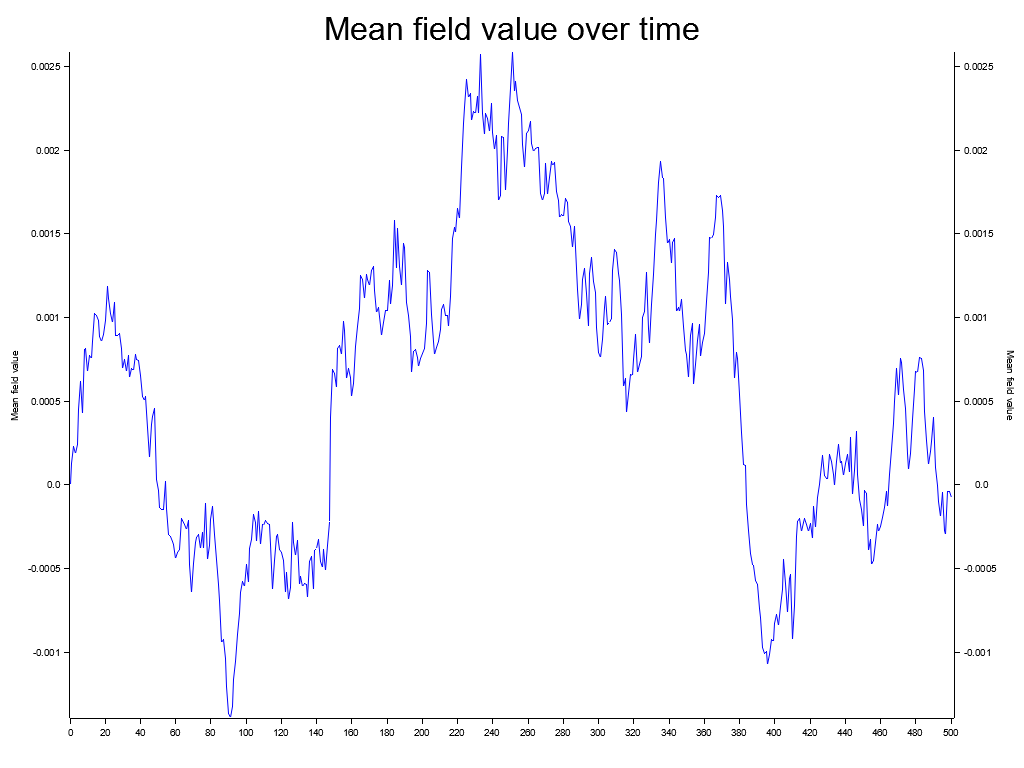
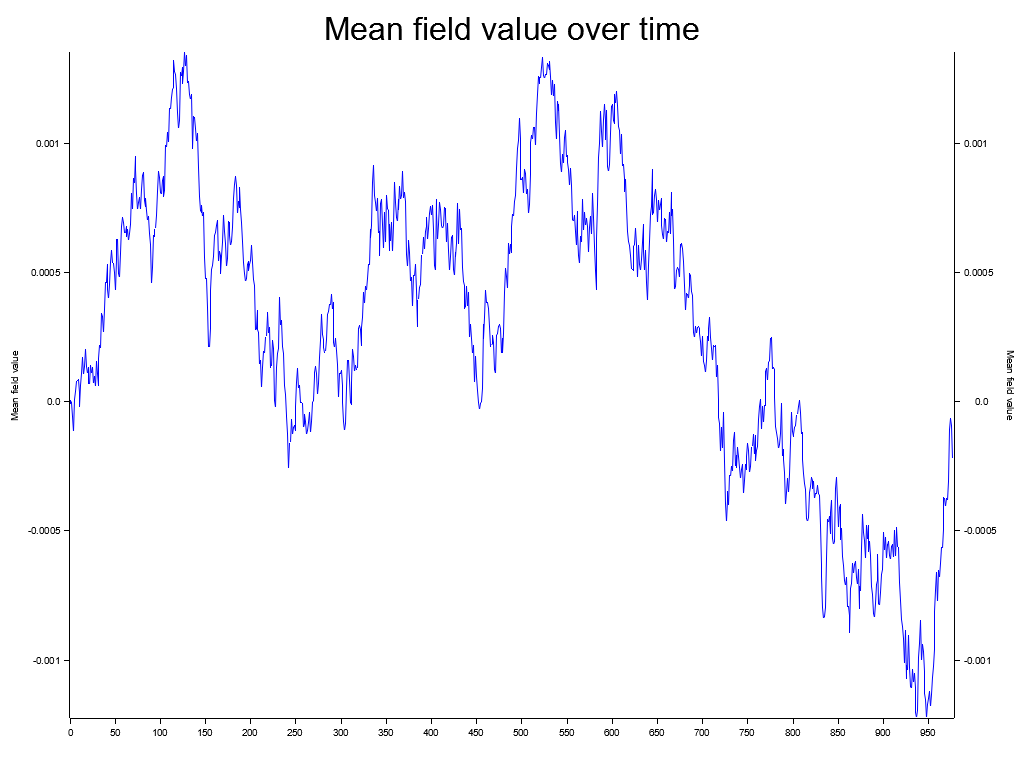
Add adaptive step size

diff --git a/src/sim.rs b/src/sim.rs
@@ -1,4 +1,5 @@
 use std::ops::Range;
+use std::time::Instant;
 use num_traits::Pow;
 use rand::Rng;
 use crate::lattice::ScalarLattice4D;
@@ -12,49 +13,90 @@ pub struct SimBuilder {
     spacing: f64,
     sizes: [usize; 4],
     initial_value: InitialFieldValue,
-    dvar: f64,
+
+    starting_variation: f64,
+    lower_acceptance: f64,
+    upper_acceptance: f64,
+    acceptance_update_interval: usize,
 
     mass_squared: f64,
     bare_coupling: f64,
+    stats_interval: usize
 }
 
 impl SimBuilder {
     pub fn new() -> Self {
         Self {
-            spacing: 0.05, sizes: [100; 4], initial_value: InitialFieldValue::Fixed(0.0), dvar: 0.3, mass_squared: 1.0, bare_coupling: 0.0,
+            spacing: 0.05, sizes: [100; 4], initial_value: InitialFieldValue::Fixed(0.0), starting_variation: 0.3, mass_squared: 1.0, bare_coupling: 0.0,
+            lower_acceptance: 0.78, upper_acceptance: 0.82, stats_interval: 100_000, acceptance_update_interval: 1000
         }
     }
 
+    /// Sets the lattice spacing.
     pub fn spacing(mut self, value: f64) -> Self {
         self.spacing = value;
         self
     }
 
+    /// Sets the dimensions of the lattice.
     pub fn sizes(mut self, value: [usize; 4]) -> Self {
         self.sizes = value;
         self
     }
 
+    /// Sets the initial conditions of the lattice.
     pub fn initial_value(mut self, value: InitialFieldValue) -> Self {
         self.initial_value = value;
         self
     }
 
-    pub fn variation(mut self, value: f64) -> Self {
-        self.dvar = value;
+    /// The starting value of the maximum field variation. The field variation determines
+    /// how much the field fluctuates.
+    pub fn initial_variation(mut self, value: f64) -> Self {
+        self.starting_variation = value;
         self
     }
 
-    pub fn bare_coupling(mut self, value: f64) -> Self {
+    /// Sets the desired lower bound on the acceptance ratio. If the acceptance ratio goes below
+    /// this bound, dvar will be adjusted to correct this.
+    pub fn lower_acceptance(mut self, ratio: f64) -> Self {
+        self.lower_acceptance = ratio;
+        self
+    }
+
+    /// Sets the desired upper bound on the acceptance ratio. If the acceptance ratio goes above
+    /// this bound, dvar will be adjusted to correct this.
+    pub fn upper_acceptance(mut self, ratio: f64) -> Self {
+        self.upper_acceptance = ratio;
+        self
+    }
+
+    /// Sets the amount of steps to wait before checking the field variation again.
+    pub fn acceptance_update_interval(mut self, interval: usize) -> Self {
+        self.acceptance_update_interval = interval;
+        self
+    }
+
+    /// Decides how often to record statistics. The simulation will record a statistic every
+    /// `interval` steps.
+    pub fn stats_interval(mut self, interval: usize) -> Self {
+        self.stats_interval = interval;
+        self
+    }
+
+    /// Sets the coupling constant.
+    pub fn coupling(mut self, value: f64) -> Self {
         self.bare_coupling = value;
         self
     }
 
+    /// Sets the mass squared. Setting this to a negative value will introduce symmetry breaking.
     pub fn mass_squared(mut self, value: f64) -> Self {
         self.mass_squared = value;
         self
     }
 
+    /// Creates the simulation using the given options.
     pub fn build(self) -> anyhow::Result<Sim> {
         let lattice = match self.initial_value {
             InitialFieldValue::Fixed(val) => {
@@ -66,8 +108,8 @@ impl SimBuilder {
         };
 
         let sim = Sim {
-            lattice, spacing: self.spacing, dvar: self.dvar, mass_squared: self.mass_squared, coupling: self.bare_coupling,
-            total_moves: 0, accepted_moves: 0
+            lattice, spacing: self.spacing, dvar: self.starting_variation, mass_squared: self.mass_squared, coupling: self.bare_coupling,
+            lower_acceptance: self.lower_acceptance, upper_acceptance: self.upper_acceptance, stats: SimStatistics::default(), stats_interval: self.stats_interval, acceptance_interval: self.acceptance_update_interval
         };
 
         Ok(sim)
@@ -80,6 +122,37 @@ impl Default for SimBuilder {
     }
 }
 
+pub struct SimStatistics {
+    pub total_moves: usize,
+    pub accepted_moves: usize,
+    pub accept_ratio_history: Vec<f64>,
+    pub dvar_history: Vec<f64>,
+    pub mean_history: Vec<f64>,
+    pub var_history: Vec<f64>
+}
+
+impl SimStatistics {
+    pub fn reserve_capacity(&mut self, count: usize) {
+        self.accept_ratio_history.reserve(count);
+        self.dvar_history.reserve(count);
+        self.mean_history.reserve(count);
+        self.var_history.reserve(count);
+    }
+}
+
+impl Default for SimStatistics {
+    fn default() -> Self {
+        Self {
+            total_moves: 0,
+            accepted_moves: 0,
+            accept_ratio_history: Vec::with_capacity(100),
+            dvar_history: Vec::with_capacity(100),
+            mean_history: Vec::with_capacity(100),
+            var_history: Vec::with_capacity(100)
+        }
+    }
+}
+
 pub struct Sim {
     lattice: ScalarLattice4D,
     spacing: f64,
@@ -88,38 +161,66 @@ pub struct Sim {
     mass_squared: f64,
     coupling: f64,
 
-    total_moves: usize,
-    accepted_moves: usize
+    acceptance_interval: usize,
+    lower_acceptance: f64,
+    upper_acceptance: f64,
+
+    stats_interval: usize,
+    stats: SimStatistics
 }
 
 impl Sim {
-    pub fn timestep(&mut self) {
-        // Choose a random lattice site.
-        let mut rng = rand::rng();
 
-        let chosen_site = rng.random_range(0..self.lattice.sweep_size());
-        self.perform_site_flip(chosen_site);
-
-        // let curr_val = self.lattice[chosen_site];
-        // let curr_action = self.perform_site_flip();
-        //
-        // let new_val = rng.random_range((curr_val - self.dvar)..(curr_val + self.dvar));
-        // self.lattice[chosen_site] = new_val;
-        // let new_action = self.perform_site_flip();
-        //
-        // let action_delta = curr_action - new_action;
-        // let accept_prob = (-action_delta).exp();
-        // println!("Accept prob: {accept_prob}");
-        //
-        // let realised = rng.random_range(0.0..1.0);
-        // if realised > accept_prob {
-        //     // Probability check failed.
-        //     self.lattice[chosen_site] = curr_val;
-        // }
+    pub fn stats(&self) -> &SimStatistics {
+        &self.stats
     }
 
-    pub fn total_moves(&self) -> usize { self.total_moves }
-    pub fn accepted_moves(&self) -> usize { self.accepted_moves }
+    pub fn simulate(&mut self, total_sweeps: usize) {
+        let sweep = self.lattice.sweep_size();
+        let step_count = total_sweeps * sweep;
+
+        let stats_count = step_count / self.stats_interval;
+        self.stats.reserve_capacity(stats_count);
+
+        for i in 0..step_count {
+            self.timestep();
+
+            // Record statistics
+            if i % self.stats_interval == 0 {
+                let mean = self.lattice.mean();
+                let var = self.lattice.variance();
+
+                self.stats.mean_history.push(mean);
+                self.stats.var_history.push(var);
+
+                let accept = self.stats.accepted_moves;
+                let total = self.stats.total_moves;
+                let ratio = accept as f64 / total as f64 * 100.0;
+
+                self.stats.accept_ratio_history.push(ratio);
+                self.stats.dvar_history.push(self.dvar);
+
+                println!("---------------------------------------------");
+                println!("Progress ({:.2}%): {i}/{step_count}", i as f64 / step_count as f64 * 100.0);
+                println!("Acceptance ratio: {:.2}%", ratio);
+            }
+
+            // Update field variation
+            if i % self.acceptance_interval == 0 {
+                self.update_dvar();
+            }
+        }
+    }
+
+    fn timestep(&mut self) {
+        // Choose a random lattice site.
+        let mut rng = rand::rng();
+        let chosen_site = rng.random_range(0..self.lattice.sweep_size());
+        self.perform_site_flip(chosen_site);
+    }
+
+    pub fn total_moves(&self) -> usize { self.stats.total_moves }
+    pub fn accepted_moves(&self) -> usize { self.stats.accepted_moves }
 
     pub fn lattice(&self) -> &ScalarLattice4D {
         &self.lattice
@@ -131,8 +232,6 @@ impl Sim {
         let a = self.spacing;
 
         let curr_val = self.lattice[site];
-        // println!("curr_val: {curr_val}");
-
         let new_val = rng.random_range((curr_val - self.dvar)..(curr_val + self.dvar));
 
         let mut curr_der_sum = 0.0;
@@ -159,12 +258,21 @@ impl Sim {
         let accept_prob = (-total_delta).exp();
         let realised = rng.random_range(0.0..1.0);
         if realised < accept_prob {
-            self.accepted_moves += 1;
+            self.stats.accepted_moves += 1;
             self.lattice[site] = new_val;
         }
-        self.total_moves += 1;
+        self.stats.total_moves += 1;
+    }
 
-        // println!("accept_prob: {accept_prob}");
-        // println!("total_delta: {total_delta}");
+    // Check whether the current field variation is correct, otherwise adjusts it slightly.
+    fn update_dvar(&mut self) {
+        let acceptance_ratio = self.stats.accepted_moves as f64 / self.stats.total_moves as f64;
+
+        // Adjust dvar if acceptance ratio is 5% away from desired ratio
+        if acceptance_ratio < self.lower_acceptance {
+            self.dvar *= 0.95;
+        } else if acceptance_ratio > self.upper_acceptance {
+            self.dvar *= 1.05;
+        }
     }
 }

diff --git a/src/main.rs b/src/main.rs
@@ -64,52 +64,24 @@ fn main() -> anyhow::Result<()> {
     let mut sim = SimBuilder::new()
         .sizes([25; 4])
         .spacing(1.0)
-        .variation(1.0)
+        .initial_variation(1.0)
+        .upper_acceptance(0.6)
+        .lower_acceptance(0.3)
         .mass_squared(1.0)
-        .bare_coupling(0.5)
-        .initial_value(InitialFieldValue::Fixed(0.0))
+        .stats_interval(10000)
+        .coupling(0.5)
+        .initial_value(InitialFieldValue::RandomRange(-0.1..0.1))
         .build()?;
 
-    let sweep = sim.lattice().sweep_size();
+    sim.simulate(25);
 
-    plot_lattice(0, sim.lattice())?;
-    let mut last_update = Instant::now();
-
-    let mut means = Vec::new();
-    let mut vars = Vec::new();
-
-    let total_count = 50 * sweep;
-    for i in 0..total_count {
-        sim.timestep();
-
-        if i % (sweep / 10) == 0 {
-            let mean = sim.lattice().mean();
-            let var = sim.lattice().variance();
-
-            println!("Mean: {mean}, variance: {var}");
-
-            means.push(mean);
-            vars.push(var);
-        }
-
-        if last_update.elapsed().as_millis() >= 1000 {
-            let accept = sim.accepted_moves();
-            let total = sim.total_moves();
-            let ratio = accept as f64 / total as f64 * 100.0;
-            println!("---------------------------------------------");
-            println!("Progress ({:.2}%): {i}/{total_count}", i as f64 / total_count as f64 * 100.0);
-            println!("Acceptance ratio: {:.2}%", ratio);
-            // println!("Mean field value: {}", sim.lattice().avg());
-
-            // plot_lattice(i, sim.lattice())?;
-            last_update = Instant::now();
-        }
-    }
+    // plot_lattice(0, sim.lattice())?;
 
     let root = BitMapBackend::new("plots/avg.png", (1024, 768)).into_drawing_area();
 
     root.fill(&WHITE)?;
 
+    let means = &sim.stats().mean_history;
     let mut chart = ChartBuilder::on(&root)
         .margin(10)
         .caption(
@@ -149,6 +121,7 @@ fn main() -> anyhow::Result<()> {
 
     root.fill(&WHITE)?;
 
+    let vars = &sim.stats().var_history;
     let mut chart = ChartBuilder::on(&root)
         .margin(10)
         .caption(
@@ -176,11 +149,48 @@ fn main() -> anyhow::Result<()> {
 
     chart.draw_series(LineSeries::new(
         vars.iter().enumerate().map(|(i, v)| (i, *v)),
-        &RED,
+        &BLUE,
     ))?;
 
     root.present()?;
     println!("Variance plotted over time");
+
+    let root = BitMapBackend::new("plots/accept.png", (1024, 768)).into_drawing_area();
+
+    root.fill(&WHITE)?;
+
+    let accept_history = &sim.stats().accept_ratio_history;
+    let mut chart = ChartBuilder::on(&root)
+        .margin(10)
+        .caption(
+            "Acceptance ratio over time",
+            ("sans-serif", 40),
+        )
+        .set_label_area_size(LabelAreaPosition::Left, 60)
+        .set_label_area_size(LabelAreaPosition::Right, 60)
+        .set_label_area_size(LabelAreaPosition::Bottom, 40)
+        .build_cartesian_2d(
+            0..accept_history.len(),
+            accept_history.iter().copied().reduce(|a, b| if a.total_cmp(&b).is_lt() { a } else { b })
+                .unwrap_or(0.0)..accept_history.iter().copied().reduce(|a, b| if a.total_cmp(&b).is_gt() { a } else { b })
+                .unwrap_or(0.0)
+        )?;
+
+    chart
+        .configure_mesh()
+        .disable_x_mesh()
+        .disable_y_mesh()
+        .x_labels(30)
+        .max_light_lines(4)
+        .y_desc("Acceptance ratio")
+        .draw()?;
+
+    chart.draw_series(LineSeries::new(
+        accept_history.iter().enumerate().map(|(i, v)| (i, *v)),
+        &BLUE,
+    ))?;
+
+    plot_lattice(0, sim.lattice())?;
 
     Ok(())
 }
